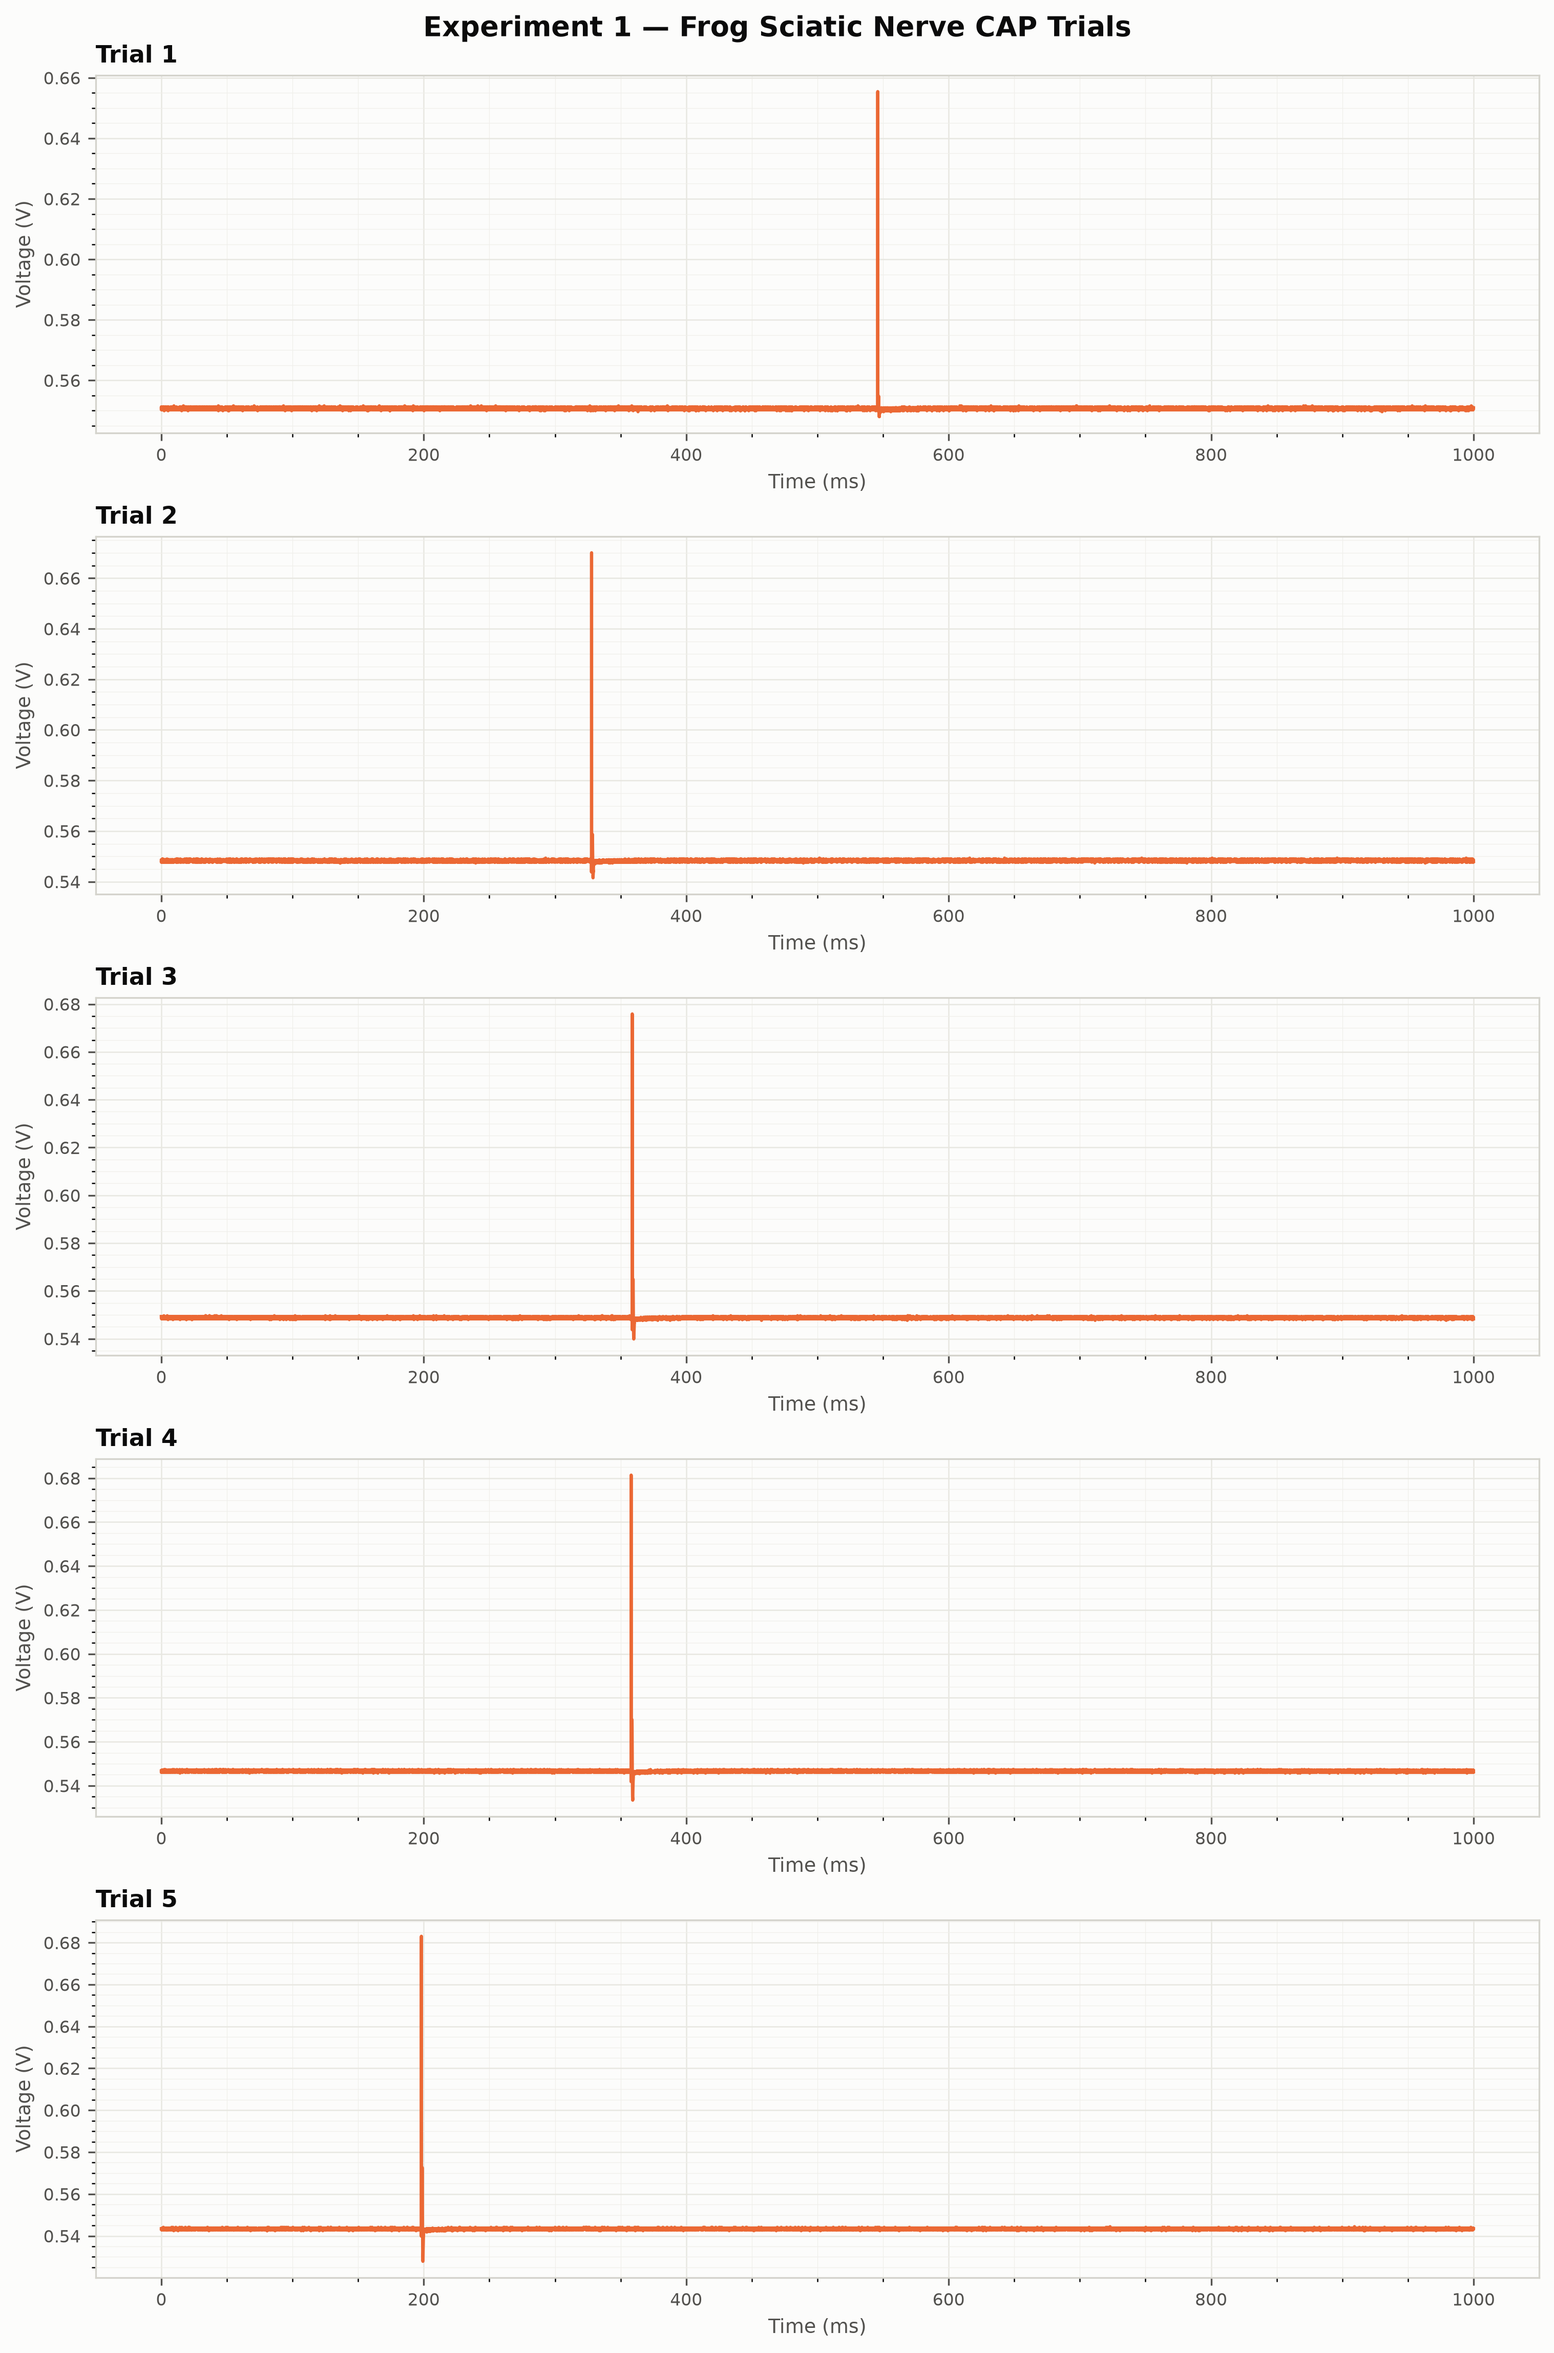
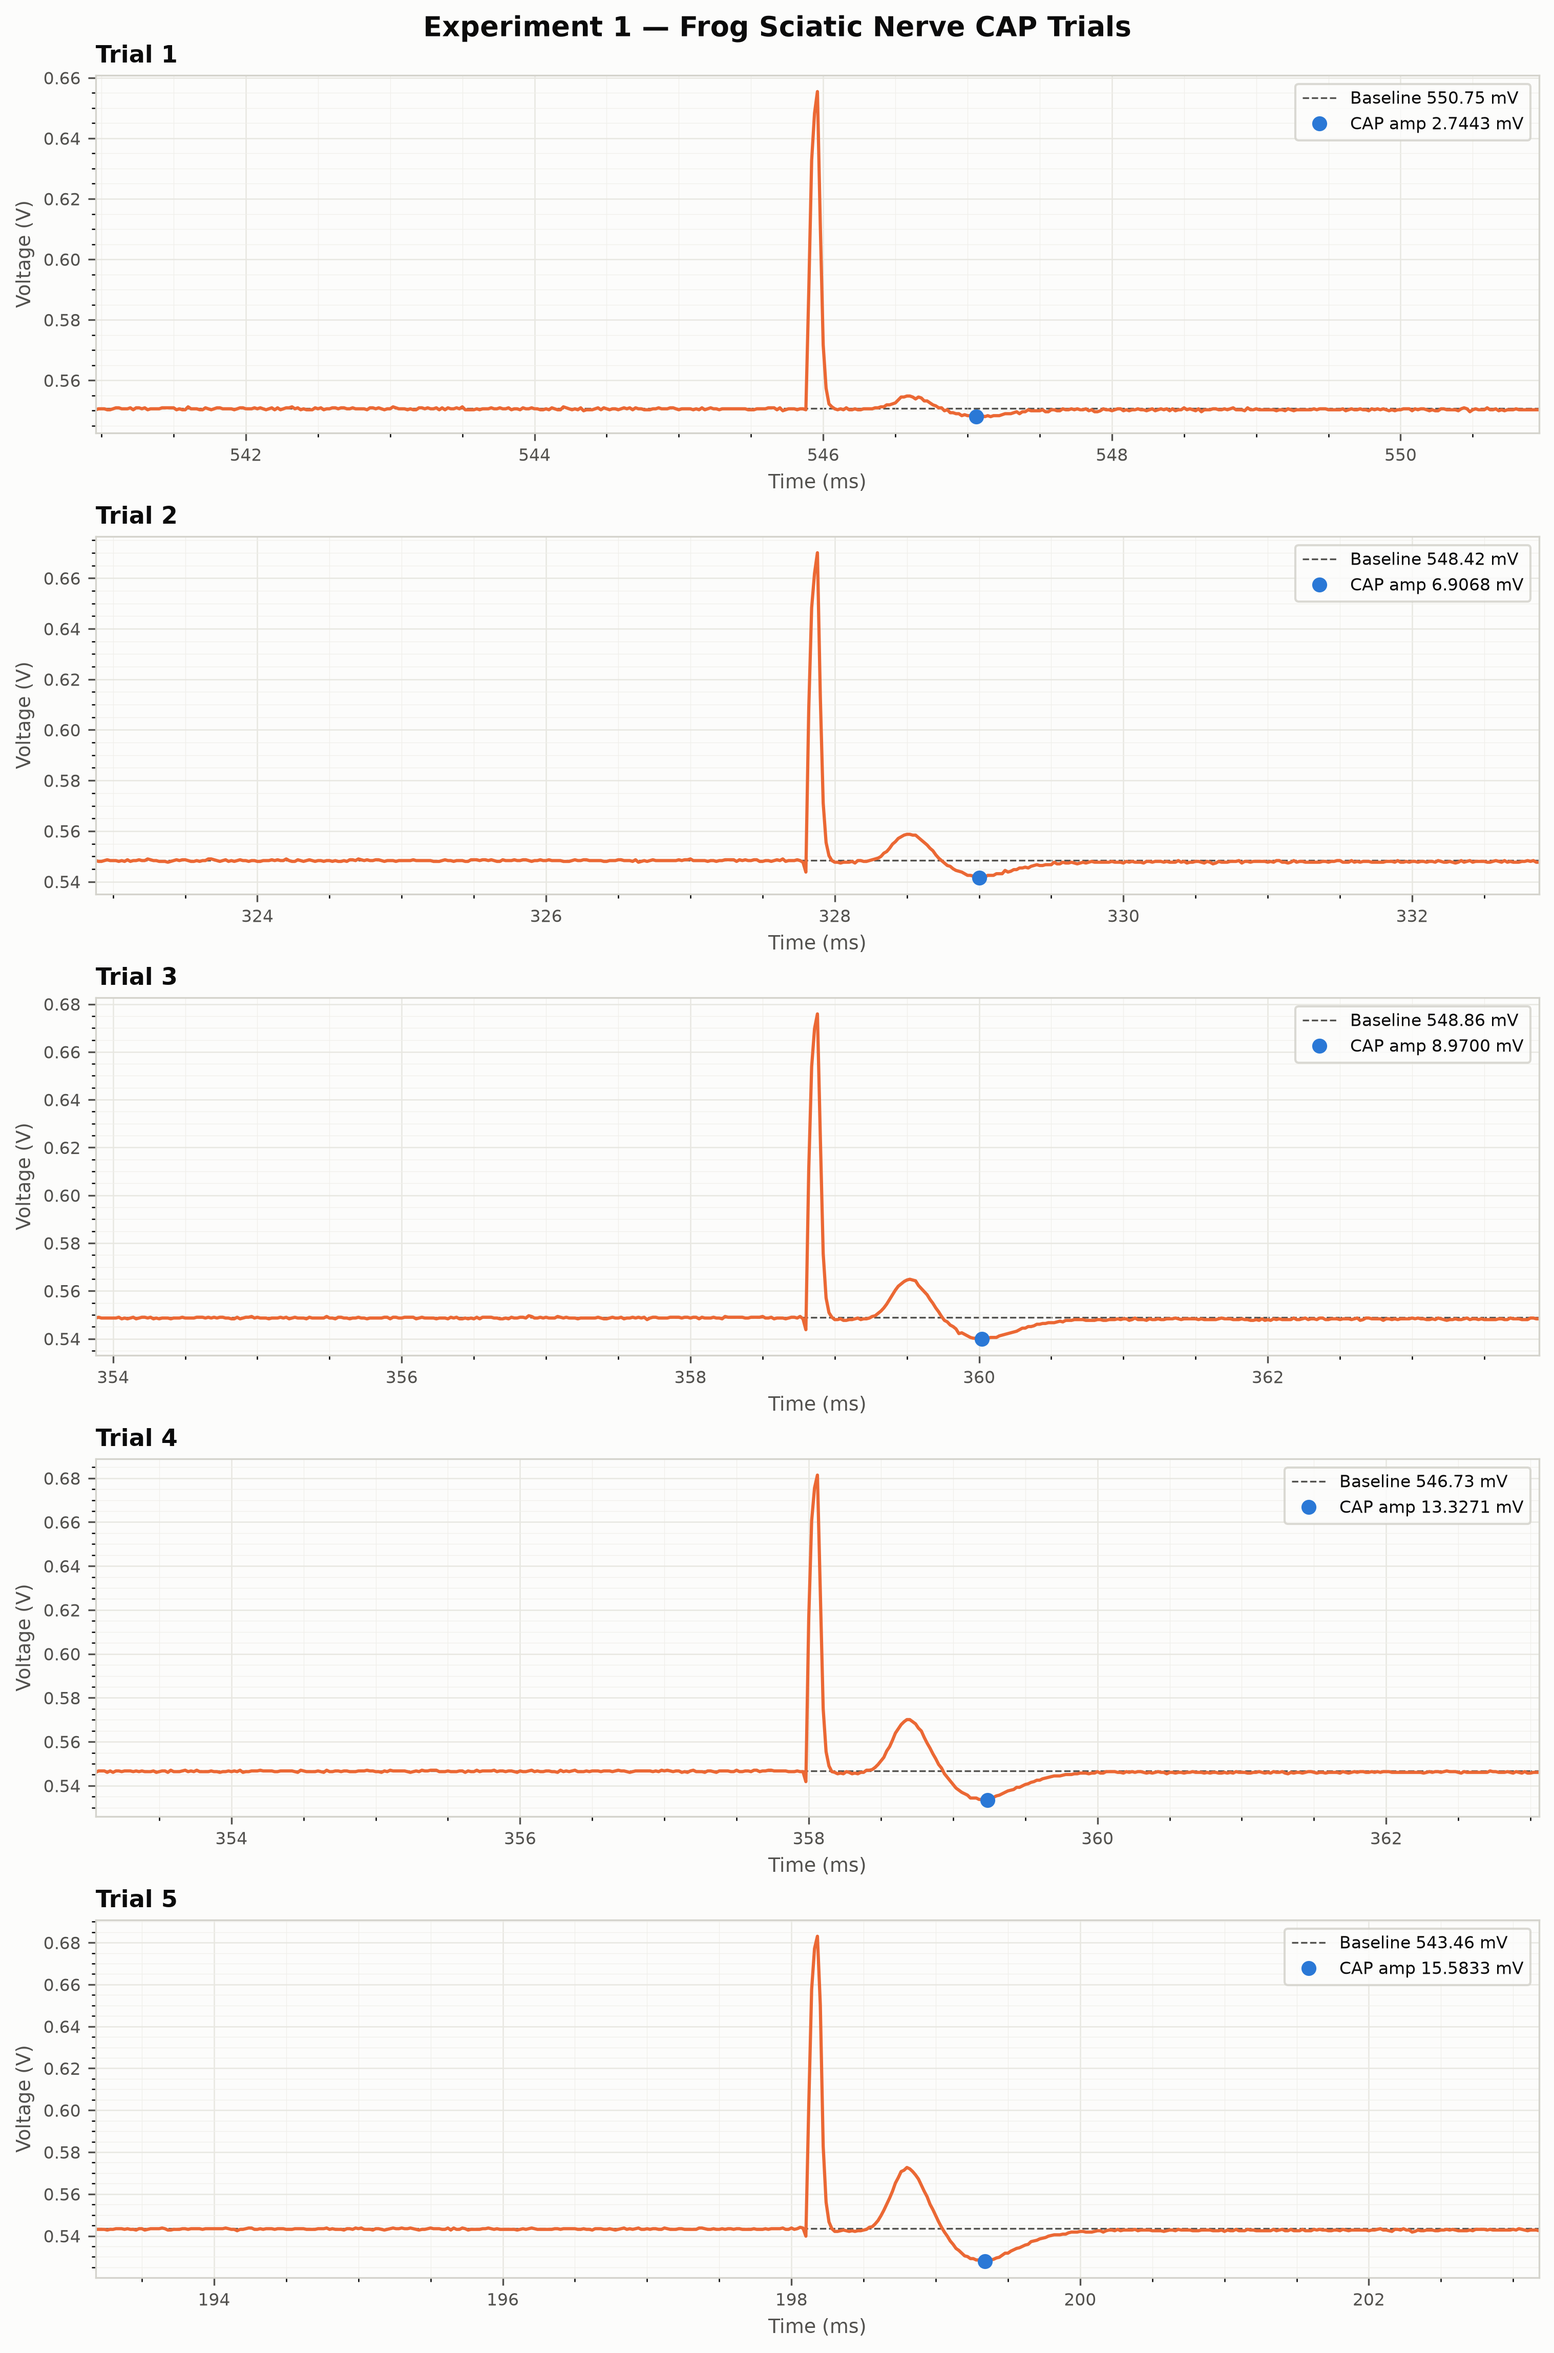
Refined plot, added CAP amp measurement and updated plots

diff --git a/CAP.py b/CAP.py
@@ -52,8 +52,34 @@ for ax, path in zip(axes, trial_files):
 
     time, stimulus, nerve = load_labview_tsv(path)
 
-    ax.plot(time * 1e3, nerve, color=COLOR_NERVE, linewidth=1.5,
-            label="Recorded Nerve Voltage", zorder=2)
+    max_idx = np.argmax(nerve)
+    max_val = nerve[max_idx]
+    max_t   = time[max_idx] * 1e3  # ms
+
+    # Baseline: mean of 50 ms of signal before the stimulus artifact
+    dt_s       = time[1] - time[0]           # sample period in seconds
+    win_pre    = int(0.050 / dt_s)           # 50 ms worth of samples
+    base_start = max(0, max_idx - win_pre)
+    baseline   = np.mean(nerve[base_start:max_idx])
+
+    # CAP trough: minimum within 5 ms after the stimulus peak
+    win_post  = int(0.005 / dt_s)            # 5 ms worth of samples
+    post_end  = min(len(nerve), max_idx + win_post)
+    cap_idx   = max_idx + np.argmin(nerve[max_idx:post_end])
+    cap_val   = nerve[cap_idx]
+    cap_t     = time[cap_idx] * 1e3          # ms
+    cap_amp   = baseline - cap_val           # positive: trough below baseline
+
+    print(f"Trial {trial_num}: baseline = {baseline:.6f} V | "
+          f"CAP trough = {cap_val:.6f} V at {cap_t:.3f} ms | "
+          f"CAP amplitude = {cap_amp*1e3:.4f} mV")
+
+    ax.plot(time * 1e3, nerve, color=COLOR_NERVE, linewidth=1.5, zorder=2)
+    ax.axhline(baseline, color="#52514e", linewidth=0.8, linestyle="--",
+               zorder=1, label=f"Baseline {baseline*1e3:.2f} mV")
+    ax.plot(cap_t, cap_val, "o", color="#2a78d6", markersize=6, zorder=4,
+            label=f"CAP amp {cap_amp*1e3:.4f} mV")
+    ax.set_xlim(max_t - 5, max_t + 5)
 
     ax.set_facecolor("#fcfcfb")
     ax.set_title(f"Trial {trial_num}", fontsize=11, fontweight="semibold",
@@ -68,7 +94,8 @@ for ax, path in zip(axes, trial_files):
     ax.yaxis.set_minor_locator(ticker.AutoMinorLocator())
     ax.grid(which="major", color="#e8e7e1", linewidth=0.6, zorder=0)
     ax.grid(which="minor", color="#f0efeb", linewidth=0.3, zorder=0)
-
+    ax.legend(fontsize=8, framealpha=0.85, edgecolor="#d4d3cc",
+              facecolor="#fcfcfb", labelcolor="#0b0b0b")
 
 fig.suptitle("Experiment 1 — Frog Sciatic Nerve CAP Trials",
              fontsize=13, fontweight="bold", color="#0b0b0b", y=1.01)
